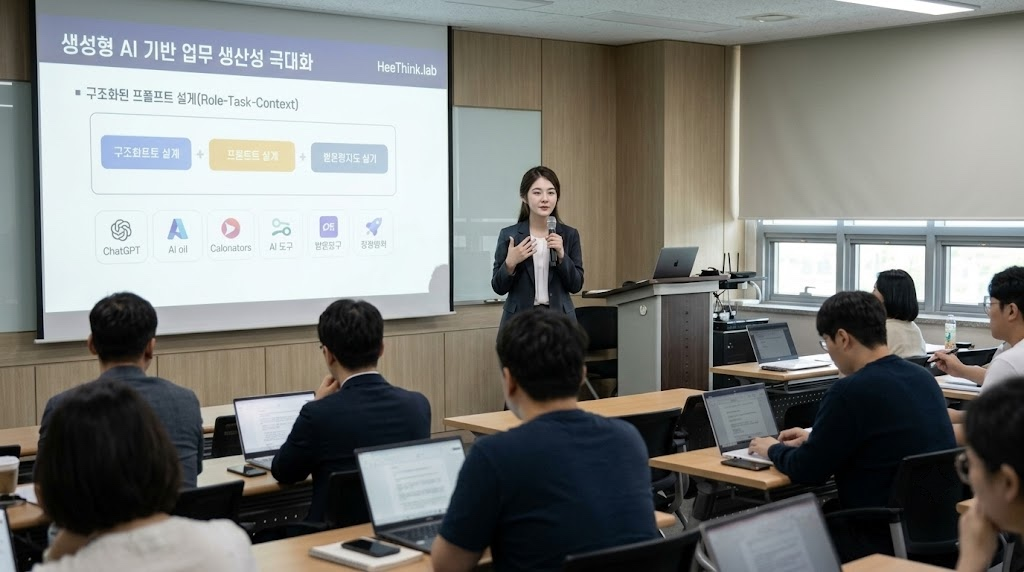
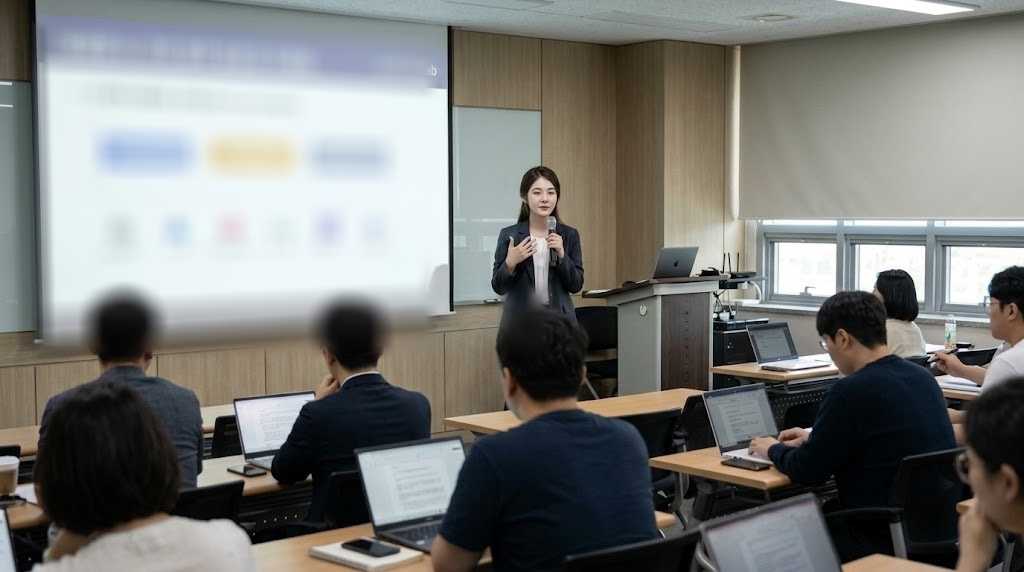
feat: simplify field categories and apply natural defocus blur to instructor faces and screens across all photos

diff --git a/index.html b/index.html
@@ -117,29 +117,19 @@
       <!-- Marquee Row 2 (Programs & Field Venues) -->
       <div class="marquee-track-wrapper">
         <div class="marquee-track animate-marquee-right">
-          <div class="tech-card"><span class="tech-dot"></span> 부산경제진흥원 재직자 AX 워크숍</div>
-          <div class="tech-card"><span class="tech-dot"></span> (사)부산여성회 디지털 역량 강화</div>
-          <div class="tech-card"><span class="tech-dot"></span> 기업 임직원 실무 생산성 혁신</div>
-          <div class="tech-card"><span class="tech-dot"></span> 초등학교 창의 AI 캠프</div>
-          <div class="tech-card"><span class="tech-dot"></span> 중학교 SW·AI 진로 특강</div>
-          <div class="tech-card"><span class="tech-dot"></span> 고등학교 바이브코딩 프로젝트</div>
-          <div class="tech-card"><span class="tech-dot"></span> 주요 대학교 해커톤 멘토링</div>
-          <div class="tech-card"><span class="tech-dot"></span> 도서관 시민 AI 리터러시 강좌</div>
-          <div class="tech-card"><span class="tech-dot"></span> 평생학습관 디지털 실무 실습</div>
-          <div class="tech-card"><span class="tech-dot"></span> 복지센터 맞춤형 AI 정보화 교육</div>
-          <div class="tech-card"><span class="tech-dot"></span> 가족센터 세대공감 AI 활용 교실</div>
+          <div class="tech-card"><span class="tech-dot"></span> 기업 임직원 AX 워크숍</div>
+          <div class="tech-card"><span class="tech-dot"></span> 부산경제진흥원 재직자 실무 특강</div>
+          <div class="tech-card"><span class="tech-dot"></span> 초·중·고 청소년 AI·SW 캠프</div>
+          <div class="tech-card"><span class="tech-dot"></span> 주요 대학교 바이브코딩 해커톤</div>
+          <div class="tech-card"><span class="tech-dot"></span> 도서관 & 평생학습관 시민 디지털 강좌</div>
+          <div class="tech-card"><span class="tech-dot"></span> 복지센터 & 가족센터 & 여성회 교육</div>
           <!-- Loop Duplication -->
-          <div class="tech-card"><span class="tech-dot"></span> 부산경제진흥원 재직자 AX 워크숍</div>
-          <div class="tech-card"><span class="tech-dot"></span> (사)부산여성회 디지털 역량 강화</div>
-          <div class="tech-card"><span class="tech-dot"></span> 기업 임직원 실무 생산성 혁신</div>
-          <div class="tech-card"><span class="tech-dot"></span> 초등학교 창의 AI 캠프</div>
-          <div class="tech-card"><span class="tech-dot"></span> 중학교 SW·AI 진로 특강</div>
-          <div class="tech-card"><span class="tech-dot"></span> 고등학교 바이브코딩 프로젝트</div>
-          <div class="tech-card"><span class="tech-dot"></span> 주요 대학교 해커톤 멘토링</div>
-          <div class="tech-card"><span class="tech-dot"></span> 도서관 시민 AI 리터러시 강좌</div>
-          <div class="tech-card"><span class="tech-dot"></span> 평생학습관 디지털 실무 실습</div>
-          <div class="tech-card"><span class="tech-dot"></span> 복지센터 맞춤형 AI 정보화 교육</div>
-          <div class="tech-card"><span class="tech-dot"></span> 가족센터 세대공감 AI 활용 교실</div>
+          <div class="tech-card"><span class="tech-dot"></span> 기업 임직원 AX 워크숍</div>
+          <div class="tech-card"><span class="tech-dot"></span> 부산경제진흥원 재직자 실무 특강</div>
+          <div class="tech-card"><span class="tech-dot"></span> 초·중·고 청소년 AI·SW 캠프</div>
+          <div class="tech-card"><span class="tech-dot"></span> 주요 대학교 바이브코딩 해커톤</div>
+          <div class="tech-card"><span class="tech-dot"></span> 도서관 & 평생학습관 시민 디지털 강좌</div>
+          <div class="tech-card"><span class="tech-dot"></span> 복지센터 & 가족센터 & 여성회 교육</div>
         </div>
       </div>
     </section>
@@ -203,19 +193,12 @@
           <div class="section-title-wrap">
             <span class="sub-badge">CLASS FIELD</span>
             <h2 class="section-h2">생생한 수업 현장,<br>스스로 완성하는 실습</h2>
-            <p class="section-desc">초·중·고교부터 대학교, 기업, 부산경제진흥원, 도서관·평생학습관·복지센터·가족센터·(사)부산여성회까지. 각 대상과 기관의 현장 눈높이에 맞춤 설계된 실제 수업 사례입니다.</p>
+            <p class="section-desc">기업·공공기관 AX 워크숍부터 초·중·고·대학 코딩 캠프, 시민 디지털 교육까지. 대상별 맞춤형 실습으로 운영됩니다.</p>
             <div class="field-tag-cloud">
-              <span class="field-tag-pill"><span class="tech-dot"></span> 초등학교</span>
-              <span class="field-tag-pill"><span class="tech-dot"></span> 중학교</span>
-              <span class="field-tag-pill"><span class="tech-dot"></span> 고등학교</span>
-              <span class="field-tag-pill"><span class="tech-dot"></span> 대학교</span>
-              <span class="field-tag-pill"><span class="tech-dot"></span> 기업 임직원</span>
-              <span class="field-tag-pill"><span class="tech-dot"></span> 부산경제진흥원</span>
-              <span class="field-tag-pill"><span class="tech-dot"></span> 도서관</span>
-              <span class="field-tag-pill"><span class="tech-dot"></span> 평생학습관</span>
-              <span class="field-tag-pill"><span class="tech-dot"></span> 복지센터</span>
-              <span class="field-tag-pill"><span class="tech-dot"></span> 가족센터</span>
-              <span class="field-tag-pill"><span class="tech-dot"></span> (사)부산여성회</span>
+              <span class="field-tag-pill active"><span class="tech-dot"></span> 전체 수업</span>
+              <span class="field-tag-pill"><span class="tech-dot"></span> 기업 & 공공기관 AX</span>
+              <span class="field-tag-pill"><span class="tech-dot"></span> 초·중·고 & 대학교 코딩</span>
+              <span class="field-tag-pill"><span class="tech-dot"></span> 시민 & 사회복지 기관</span>
             </div>
           </div>
           <a href="#contact" class="btn-outline-pill">수업 문의하기 →</a>
@@ -230,7 +213,7 @@
               <div class="case-badge-pill">2026</div>
             </div>
             <div class="case-info">
-              <span class="case-client">부산경제진흥원 & 기업 임직원 AX</span>
+              <span class="case-client">기업 & 공공기관 AX</span>
               <h3 class="case-title">부산경제진흥원 · 주요 기업 실무 AX 자동화 워크숍</h3>
               <p class="case-summary">
                 부산경제진흥원 지원사업 및 주요 기업 임직원을 대상으로 진행한 1박 2일 집중 실무 워크숍입니다. 사내 데이터 분석과 프롬프트 엔지니어링, Claude Code를 결합하여 실제 업무 파이프라인 자동화 툴을 직접 구축했습니다.
@@ -256,7 +239,7 @@
               <div class="case-badge-pill">2026</div>
             </div>
             <div class="case-info">
-              <span class="case-client">초·중·고 및 대학교 정규 교육</span>
+              <span class="case-client">초·중·고 & 대학교 코딩</span>
               <h3 class="case-title">초·중·고 청소년부터 대학교까지 · 실전 AI 바이브코딩</h3>
               <p class="case-summary">
                 초·중·고 학생들의 AI 창의 캠프부터 대학교 비전공자 해커톤까지 연령별 눈높이에 맞추어 설계되었습니다. 자연어 대화형 코딩 도구를 통해 기획한 아이디어를 당일 웹 애플리케이션으로 직접 구현하고 배포했습니다.
@@ -282,7 +265,7 @@
               <div class="case-badge-pill">2025 - 2026</div>
             </div>
             <div class="case-info">
-              <span class="case-client">도서관 · 평생학습관 · 복지센터 · 가족센터 · (사)부산여성회</span>
+              <span class="case-client">시민 & 사회복지 기관</span>
               <h3 class="case-title">공공·복지 기관 맞춤형 디지털 역량 강화 & 생성형 AI 실습</h3>
               <p class="case-summary">
                 도서관, 평생학습관, 복지센터, 가족센터, (사)부산여성회 등 시민과 지역사회를 위한 생활 밀착형 AI 교육입니다. 생성형 AI 활용부터 디지털 격차 해소, 경력 단절 예방 및 실무 역량 강화를 체계적으로 지원합니다.
@@ -493,12 +476,10 @@
                 <div class="field">
                   <label for="c-category">희망 수업 유형</label>
                   <select id="c-category">
-                    <option value="corporate_bepa">기업 임직원 & 부산경제진흥원 실무 AX 워크숍</option>
-                    <option value="school_k12">초·중·고등학교 AI·SW 창의 캠프 및 진로 특강</option>
-                    <option value="university">대학교 비전공자 바이브코딩 & 해커톤 멘토링</option>
-                    <option value="library_lifelong">도서관 및 평생학습관 시민 AI 실습 강좌</option>
-                    <option value="welfare_family_women">복지센터 · 가족센터 · (사)부산여성회 역량 강화 교육</option>
-                    <option value="individual">일반인·예비창업자 실전 프로토타입 제작</option>
+                    <option value="corporate_gov">기업 및 공공기관 AX 워크숍 (부산경제진흥원 등)</option>
+                    <option value="school_univ">초·중·고등학교 & 대학교 AI·코딩 캠프</option>
+                    <option value="library_welfare">도서관 · 평생학습관 · 복지센터 · 부산여성회 교육</option>
+                    <option value="individual">일반인 & 예비창업자 실전 프로토타입 제작</option>
                     <option value="custom">기타 기관 맞춤형 출강 설계 문의</option>
                   </select>
                 </div>
